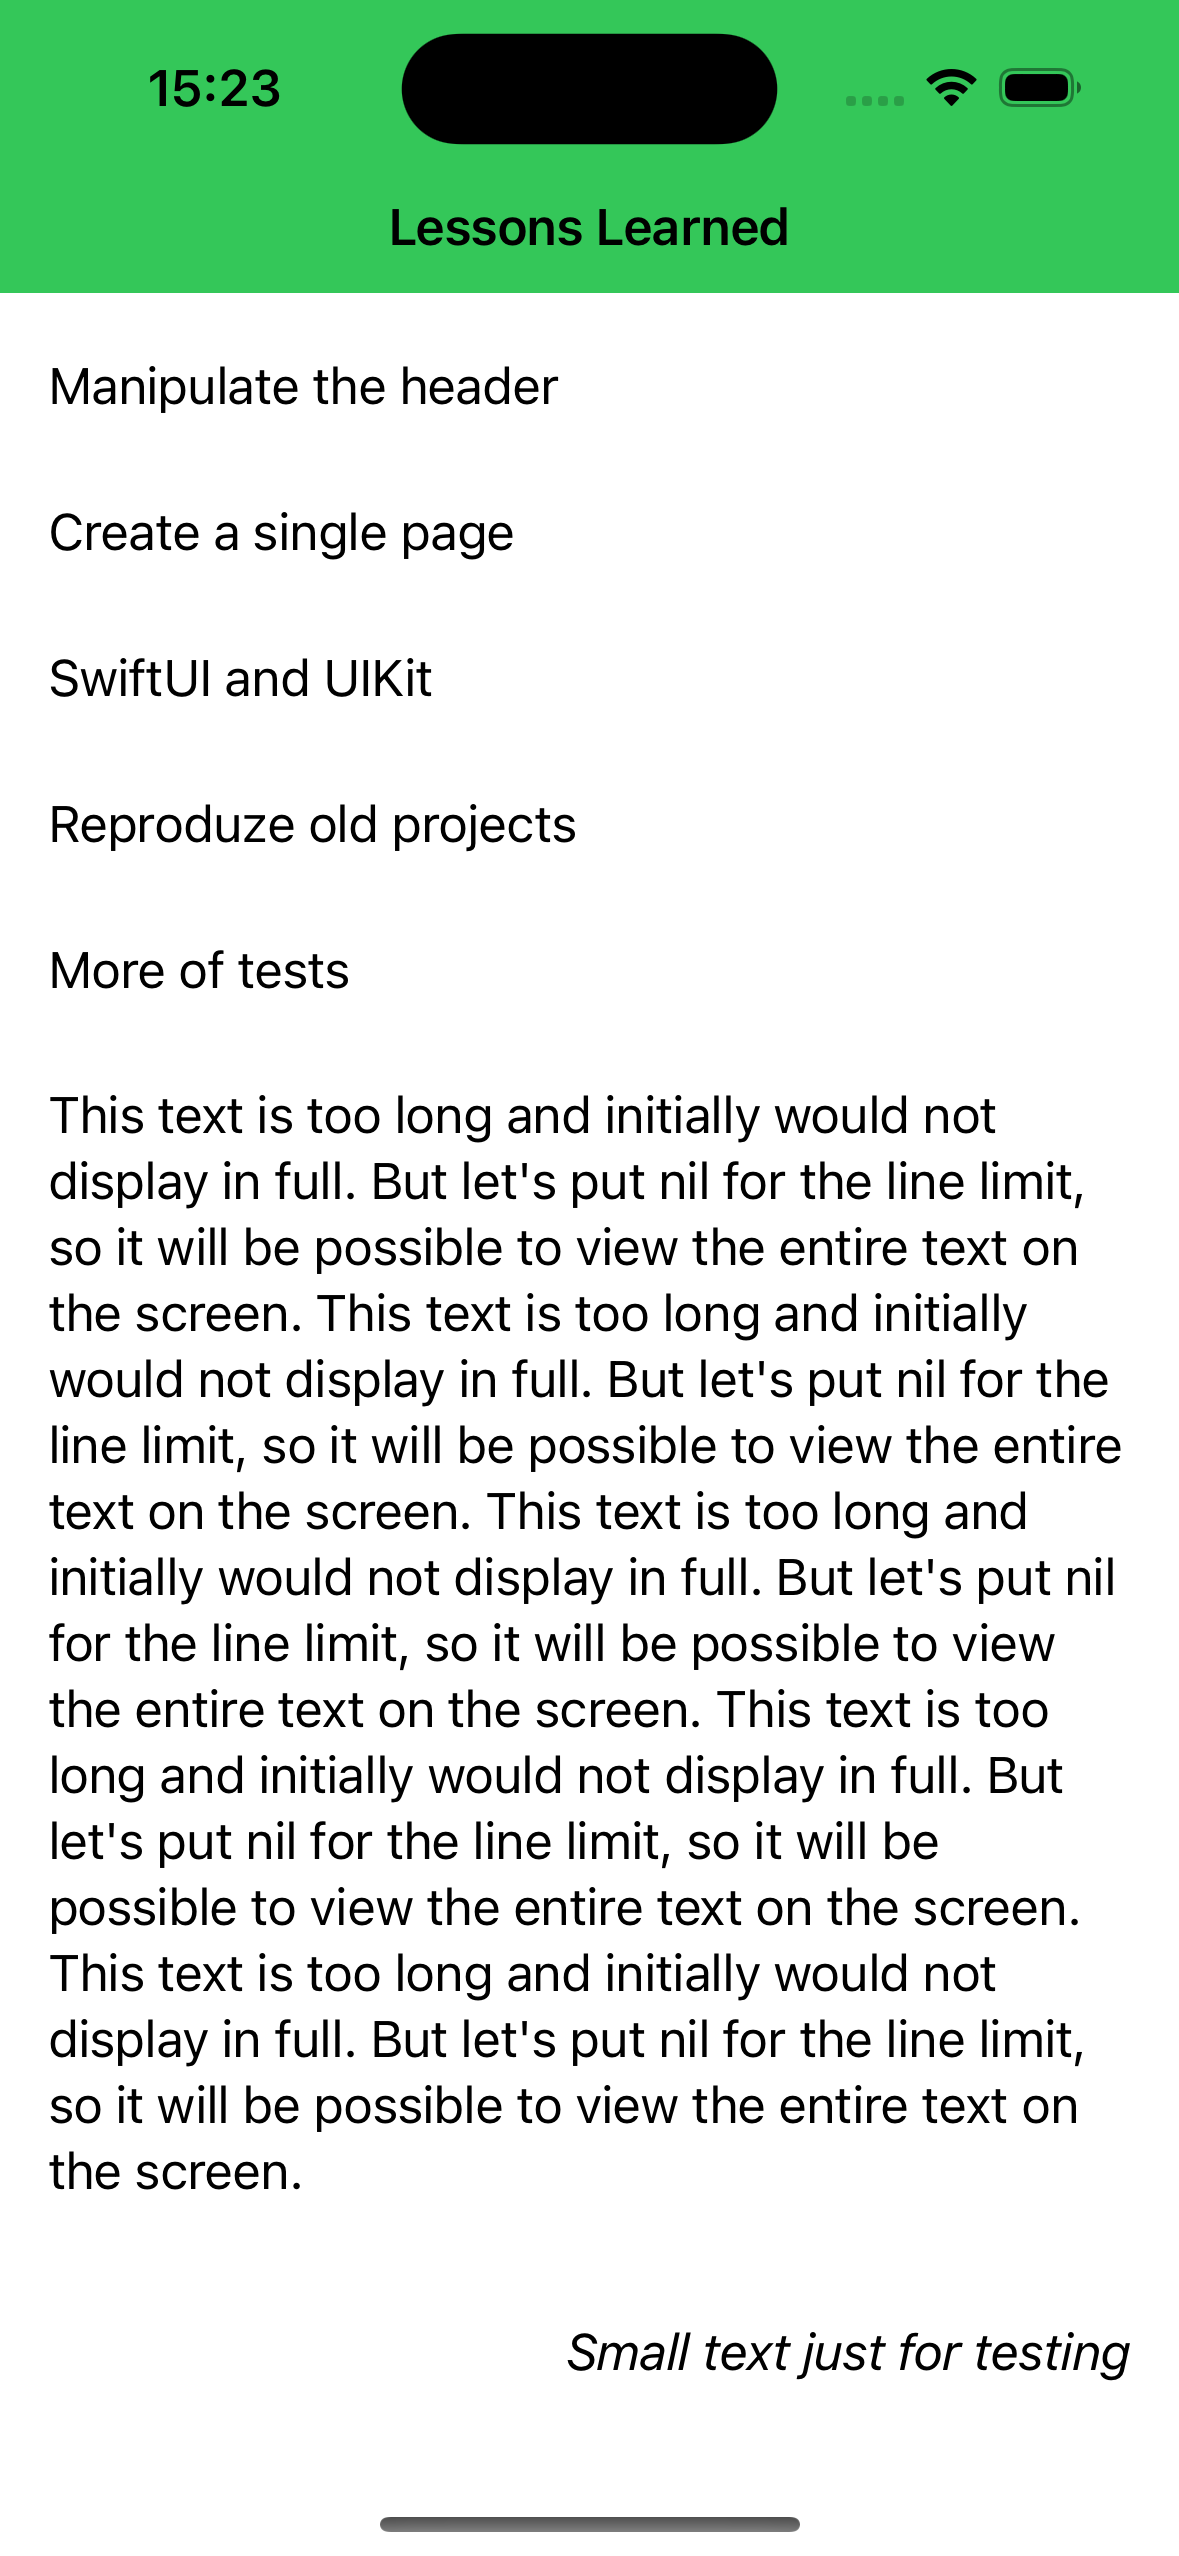
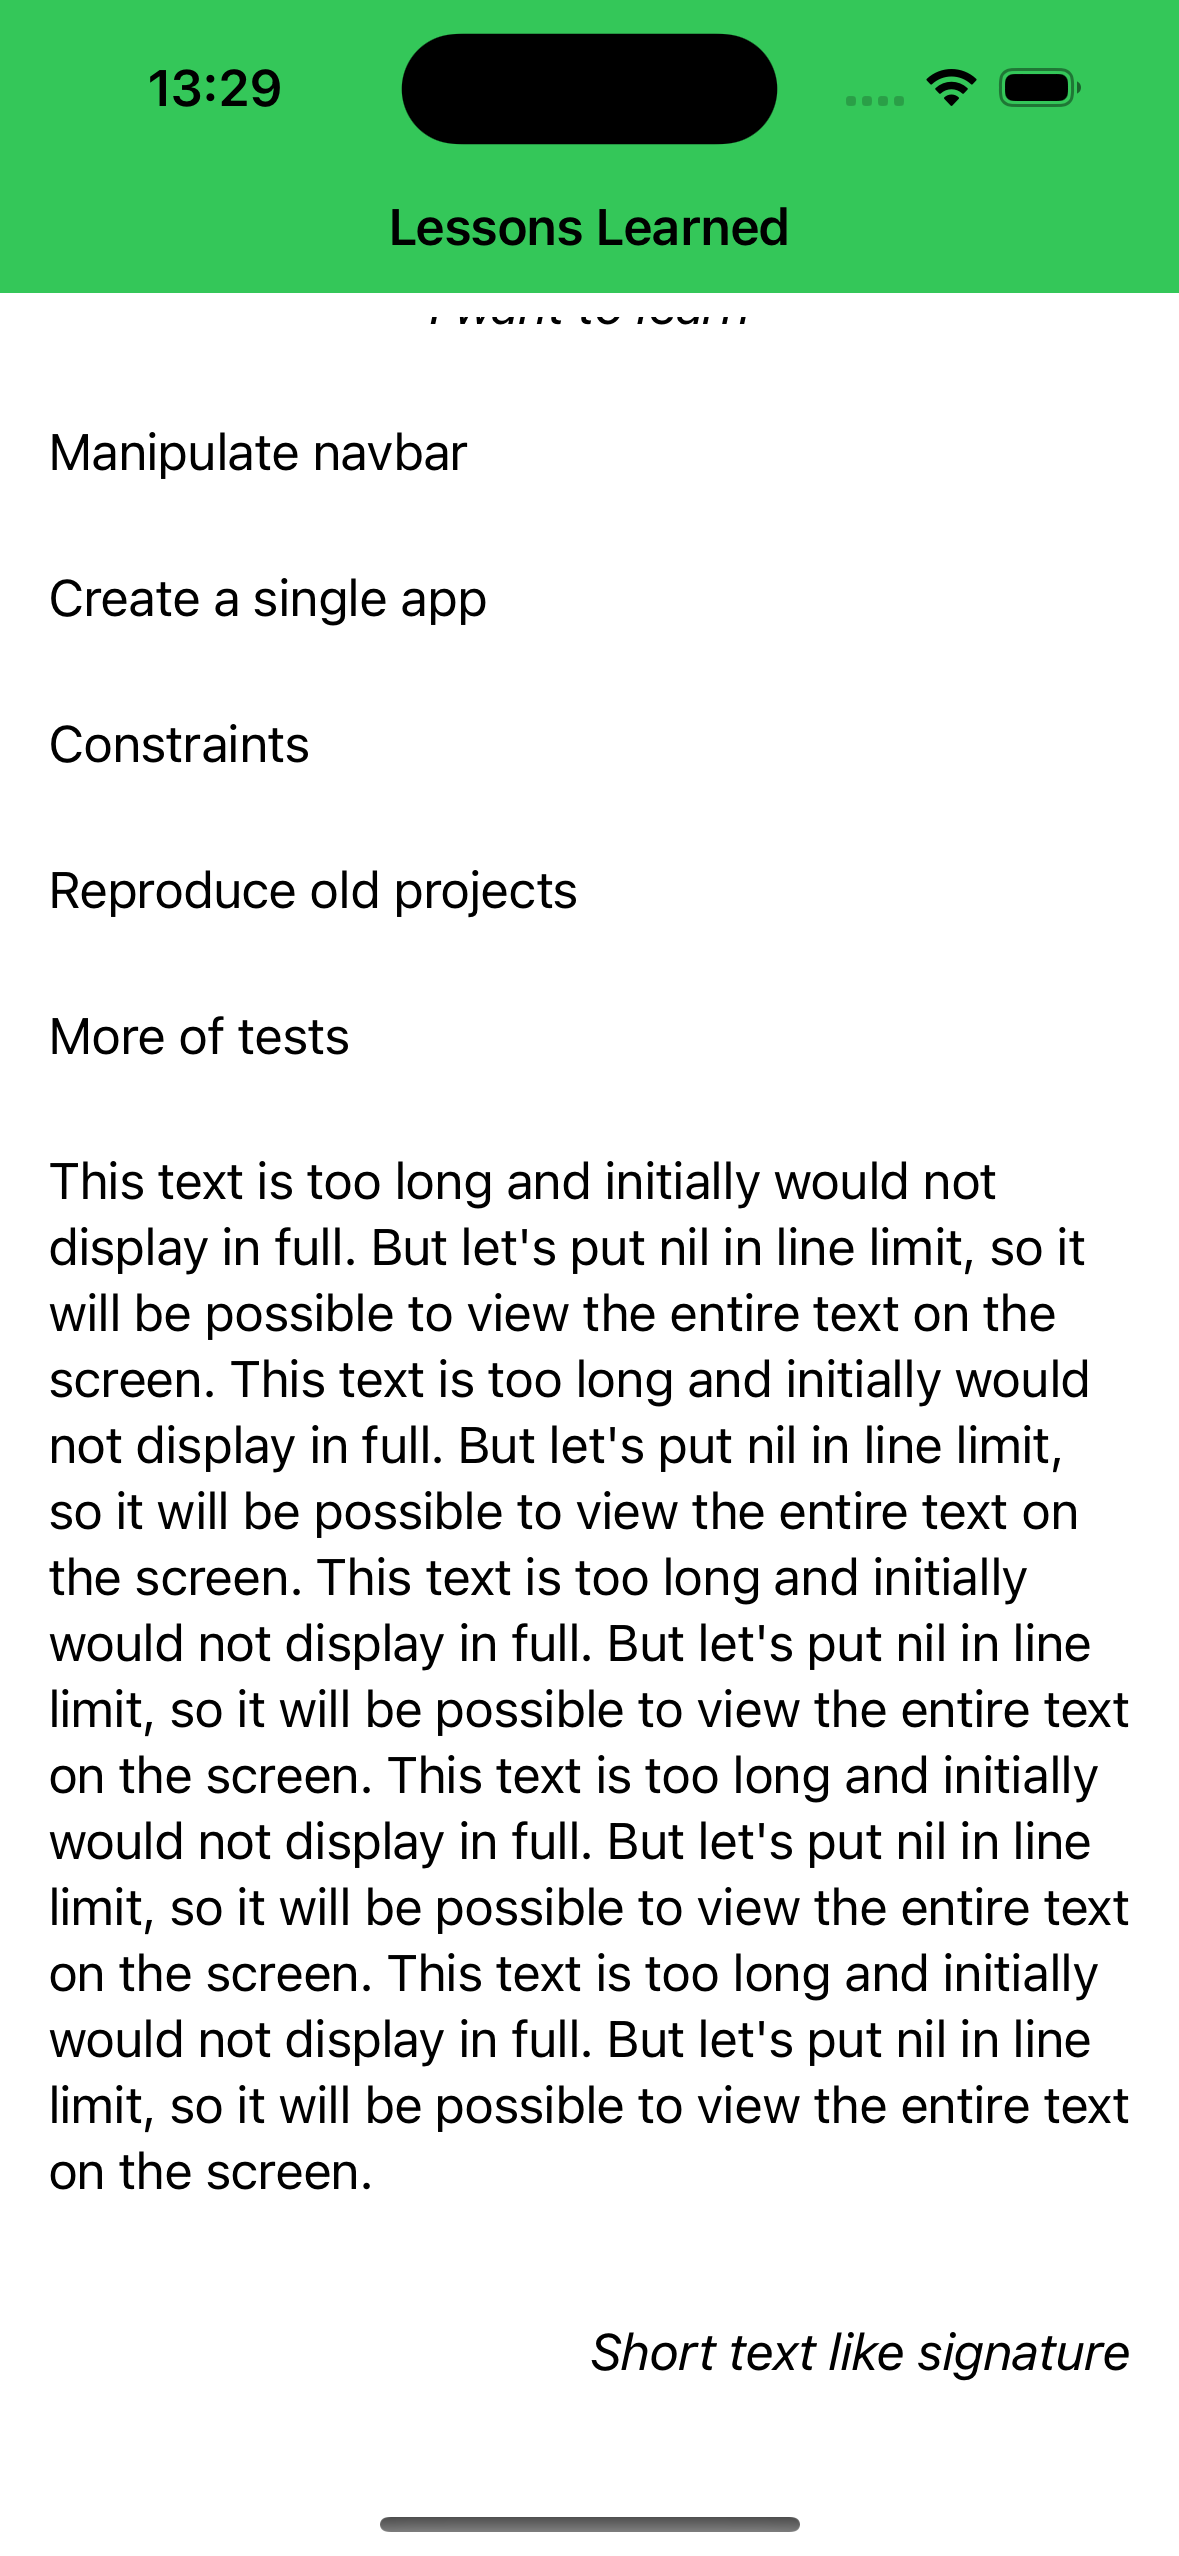
adjust texts, print screen and gif

Changed region(s): [[0.0305, 0.1236, 0.9466, 0.8654], [0.4885, 0.8963, 0.9466, 0.9272], [0.2137, 0.0309, 0.2443, 0.0618]]

diff --git a/Lessons-Learned/LL-UIKit/LL-UIKit/ViewControllerScreen.swift b/Lessons-Learned/LL-UIKit/LL-UIKit/ViewControllerScreen.swift
@@ -60,7 +60,7 @@ final class ViewControllerScreen: UIView {
     lazy var lessonsList: UILabel = {
         let lessonsList = UILabel()
 
-        lessonsList.text = "Lições Aprendidas"
+        lessonsList.text = "Lessons Learned"
         lessonsList.textAlignment = .center
         lessonsList.font = .boldSystemFont(ofSize: 18)
 
@@ -160,7 +160,7 @@ final class ViewControllerScreen: UIView {
     lazy var longText: UILabel = {
         let longText = UILabel()
 
-        longText.text = "This text is too long and initially would not display in full. But let's put nil for the line limit, so it will be possible to view the entire text on the screen. This text is too long and initially would not display in full. But let's put nil for the line limit, so it will be possible to view the entire text on the screen. This text is too long and initially would not display in full. But let's put nil for the line limit, so it will be possible to view the entire text on the screen. This text is too long and initially would not display in full. But let's put nil for the line limit, so it will be possible to view the entire text on the screen. This text is too long and initially would not display in full. But let's put nil for the line limit, so it will be possible to view the entire text on the screen."
+        longText.text = "This text is too long and initially would not display in full. But let's put nil in line limit, so it will be possible to view the entire text on the screen. This text is too long and initially would not display in full. But let's put nil in line limit, so it will be possible to view the entire text on the screen. This text is too long and initially would not display in full. But let's put nil in line limit, so it will be possible to view the entire text on the screen. This text is too long and initially would not display in full. But let's put nil in line limit, so it will be possible to view the entire text on the screen. This text is too long and initially would not display in full. But let's put nil in line limit, so it will be possible to view the entire text on the screen."
         longText.numberOfLines = 0
 
         longText.translatesAutoresizingMaskIntoConstraints = false
@@ -171,7 +171,7 @@ final class ViewControllerScreen: UIView {
     lazy var shortText: UILabel = {
         let shortText = UILabel()
 
-        shortText.text = "Short text just for testing"
+        shortText.text = "Short text like signature"
         shortText.font = .italicSystemFont(ofSize: 17.0)
 
         shortText.translatesAutoresizingMaskIntoConstraints = false
@@ -180,10 +180,10 @@ final class ViewControllerScreen: UIView {
     }()
 
     let toLearn = [
-        "Manipulate the header",
+        "Manipulate navbar",
         "Create a single app",
-        "SwiftUI and UIKit",
-        "Reproduze old projects",
+        "Constraints",
+        "Reproduce old projects",
         "More of tests"
     ]
 

diff --git a/Lessons-Learned/LL-SwiftUI/LL-SwiftUI/ContentView.swift b/Lessons-Learned/LL-SwiftUI/LL-SwiftUI/ContentView.swift
@@ -39,17 +39,17 @@ struct ContentView: View {
                                 "TDD"
                             ],
                             toLearn: [
-                                "Manipulate the header",
+                                "Manipulate navbar",
                                 "Create a single app",
-                                "SwiftUI and UIKit",
-                                "Reproduze old projects",
+                                "Constraints",
+                                "Reproduce old projects",
                                 "More of tests"
                             ]
                         )
 
                         TextComponent(
-                            longText: "This text is too long and initially would not display in full. But let's put nil for the line limit, so it will be possible to view the entire text on the screen. This text is too long and initially would not display in full. But let's put nil for the line limit, so it will be possible to view the entire text on the screen. This text is too long and initially would not display in full. But let's put nil for the line limit, so it will be possible to view the entire text on the screen. This text is too long and initially would not display in full. But let's put nil for the line limit, so it will be possible to view the entire text on the screen. This text is too long and initially would not display in full. But let's put nil for the line limit, so it will be possible to view the entire text on the screen.",
-                            shortText: "Short text just for testing"
+                            longText: "This text is too long and initially would not display in full. But let's put nil in line limit, so it will be possible to view the entire text on the screen. This text is too long and initially would not display in full. But let's put nil in line limit, so it will be possible to view the entire text on the screen. This text is too long and initially would not display in full. But let's put nil in line limit, so it will be possible to view the entire text on the screen. This text is too long and initially would not display in full. But let's put nil in line limit, so it will be possible to view the entire text on the screen. This text is too long and initially would not display in full. But let's put nil in line limit, so it will be possible to view the entire text on the screen.",
+                            shortText: "Short text like signature"
                         )
                     }
 
